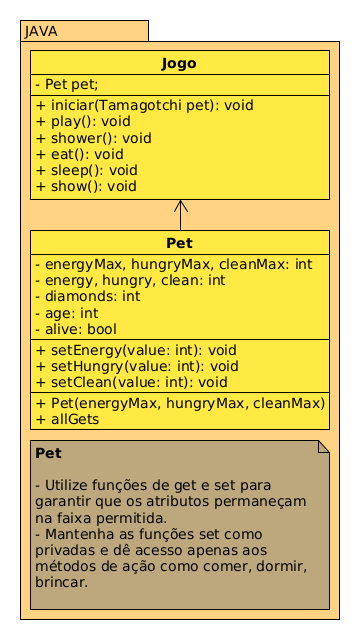
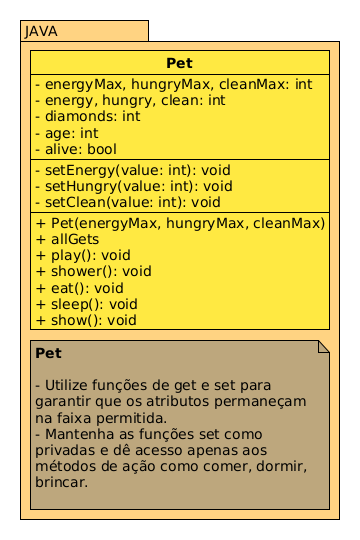
Tamagotchi

diff --git a/base/006/Readme.md b/base/006/Readme.md
@@ -154,81 +154,81 @@ $end
 ## Main não interativa
 ```java
 //case inicio
-Jogo game = new Jogo(new Pet(20, 10, 15));
-System.out.print(game.show());
+Pet pet = new Pet(20, 10, 15);
+System.out.print(pet);
 //E:20/20, S:10/10, L:15/15, D:0, I:0
-game = new Jogo(new Pet(10, 20, 50));
-System.out.print(game.show());
+pet = new Pet(10, 20, 50);
+System.out.print(pet);
 //E:10/10, S:20/20, L:50/50, D:0, I:0
 
 //case play - Brincar 
-game = new Jogo(new Pet(20, 10, 15));
-game.play();
-System.out.print(game.show());
+pet = new Pet(20, 10, 15);
+pet.play();
+System.out.print(pet);
 //E:18/20, S:9/10, L:12/15, D:1, I:1
-game.play();
-System.out.print(game.show());
+pet.play();
+System.out.print(pet);
 //E:16/20, S:8/10, L:9/15, D:2, I:2
 
 //case comer 
-game.eat();
-System.out.print(game.show());
+pet.eat();
+System.out.print(pet);
 //E:15/20, S:10/10, L:7/15, D:2, I:3
 
 //case dormir
-game.sleep();
-System.out.print(game.show());
+pet.sleep();
+System.out.print(pet);
 //E:20/20, S:9/10, L:7/15, D:2, I:8
 
 //case tomar banho
-game.clean();
-System.out.print(game.show());
+pet.clean();
+System.out.print(pet);
 //E:17/20, S:8/10, L:15/15, D:2, I:10
 
 //case dormir sem sono
-game.sleep();
+pet.sleep();
 //fail: nao esta com sono
 
 //case morrer
-game.play();
-game.play();
-game.play();
-game.play();
-System.out.print(game.show());
+pet.play();
+pet.play();
+pet.play();
+pet.play();
+System.out.print(pet);
 //E:9/20, S:4/10, L:3/15, D:6, I:14
-game.play();
+pet.play();
 //fail: pet morreu de sujeira
-System.out.print(game.show());
+System.out.print(pet);
 //E:7/20, S:3/10, L:0/15, D:7, I:15
-game.play();
+pet.play();
 //fail: pet esta morto
-game.eat();
+pet.eat();
 //fail: pet esta morto
-game.clean();
+pet.clean();
 //fail: pet esta morto
-game.sleep();
+pet.sleep();
 //fail: pet esta morto
 
 //case exemplo2
-game = new Jogo(new Pet(5, 10, 10));
-game.play();
-game.play();
-game.play();
+pet = new Pet(5, 10, 10);
+pet.play();
+pet.play();
+pet.play();
 //fail: pet morreu de fraqueza
-game.play();
+pet.play();
 //fail: pet esta morto
-System.out.print(game.show());
+System.out.print(pet);
 //E:0/5, S:7/10, L:1/10, D:3, I:3
 
 //case exemplo3
-game = new Jogo(new Pet(10, 3, 10));
-game.play();
-game.play();
-game.play();
+pet = new Pet(10, 3, 10);
+pet.play();
+pet.play();
+pet.play();
 //fail: pet morreu de fome
-game.play();
+pet.play();
 //fail: pet esta morto
-System.out.print(game.show());
+System.out.print(pet);
 //E:4/10, S:0/3, L:1/10, D:3, I:3
 ```
 ***
